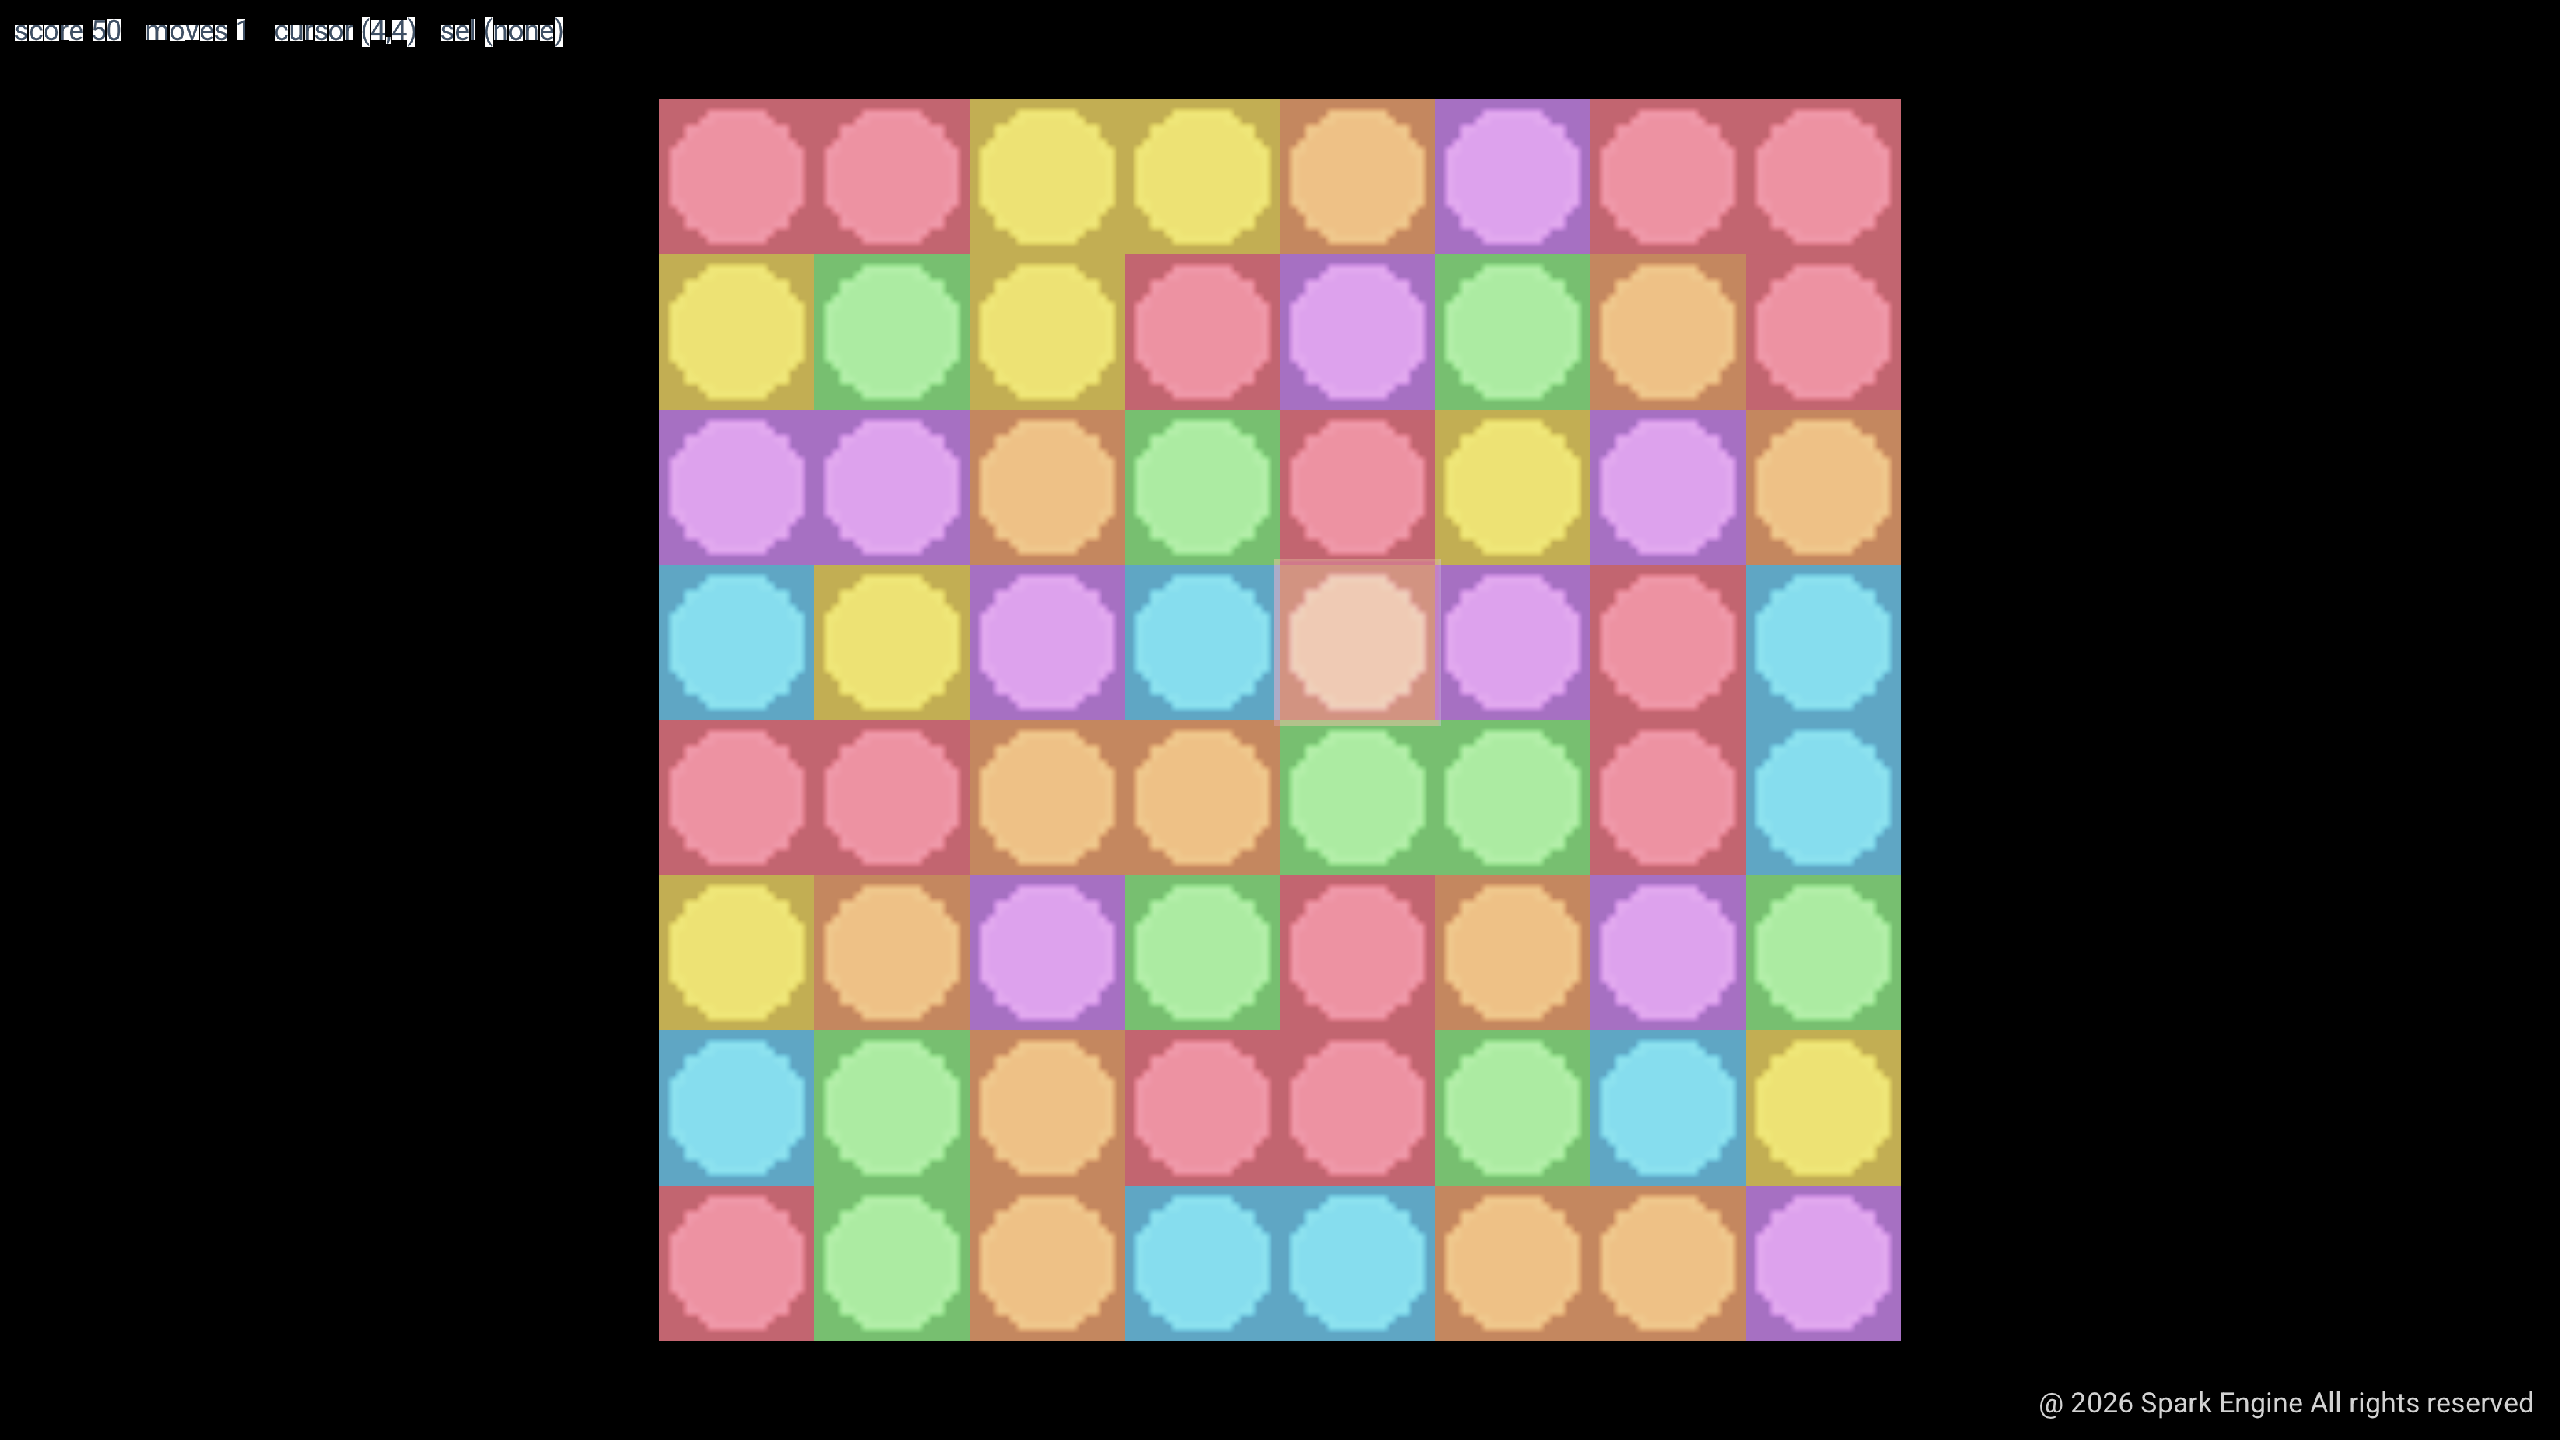
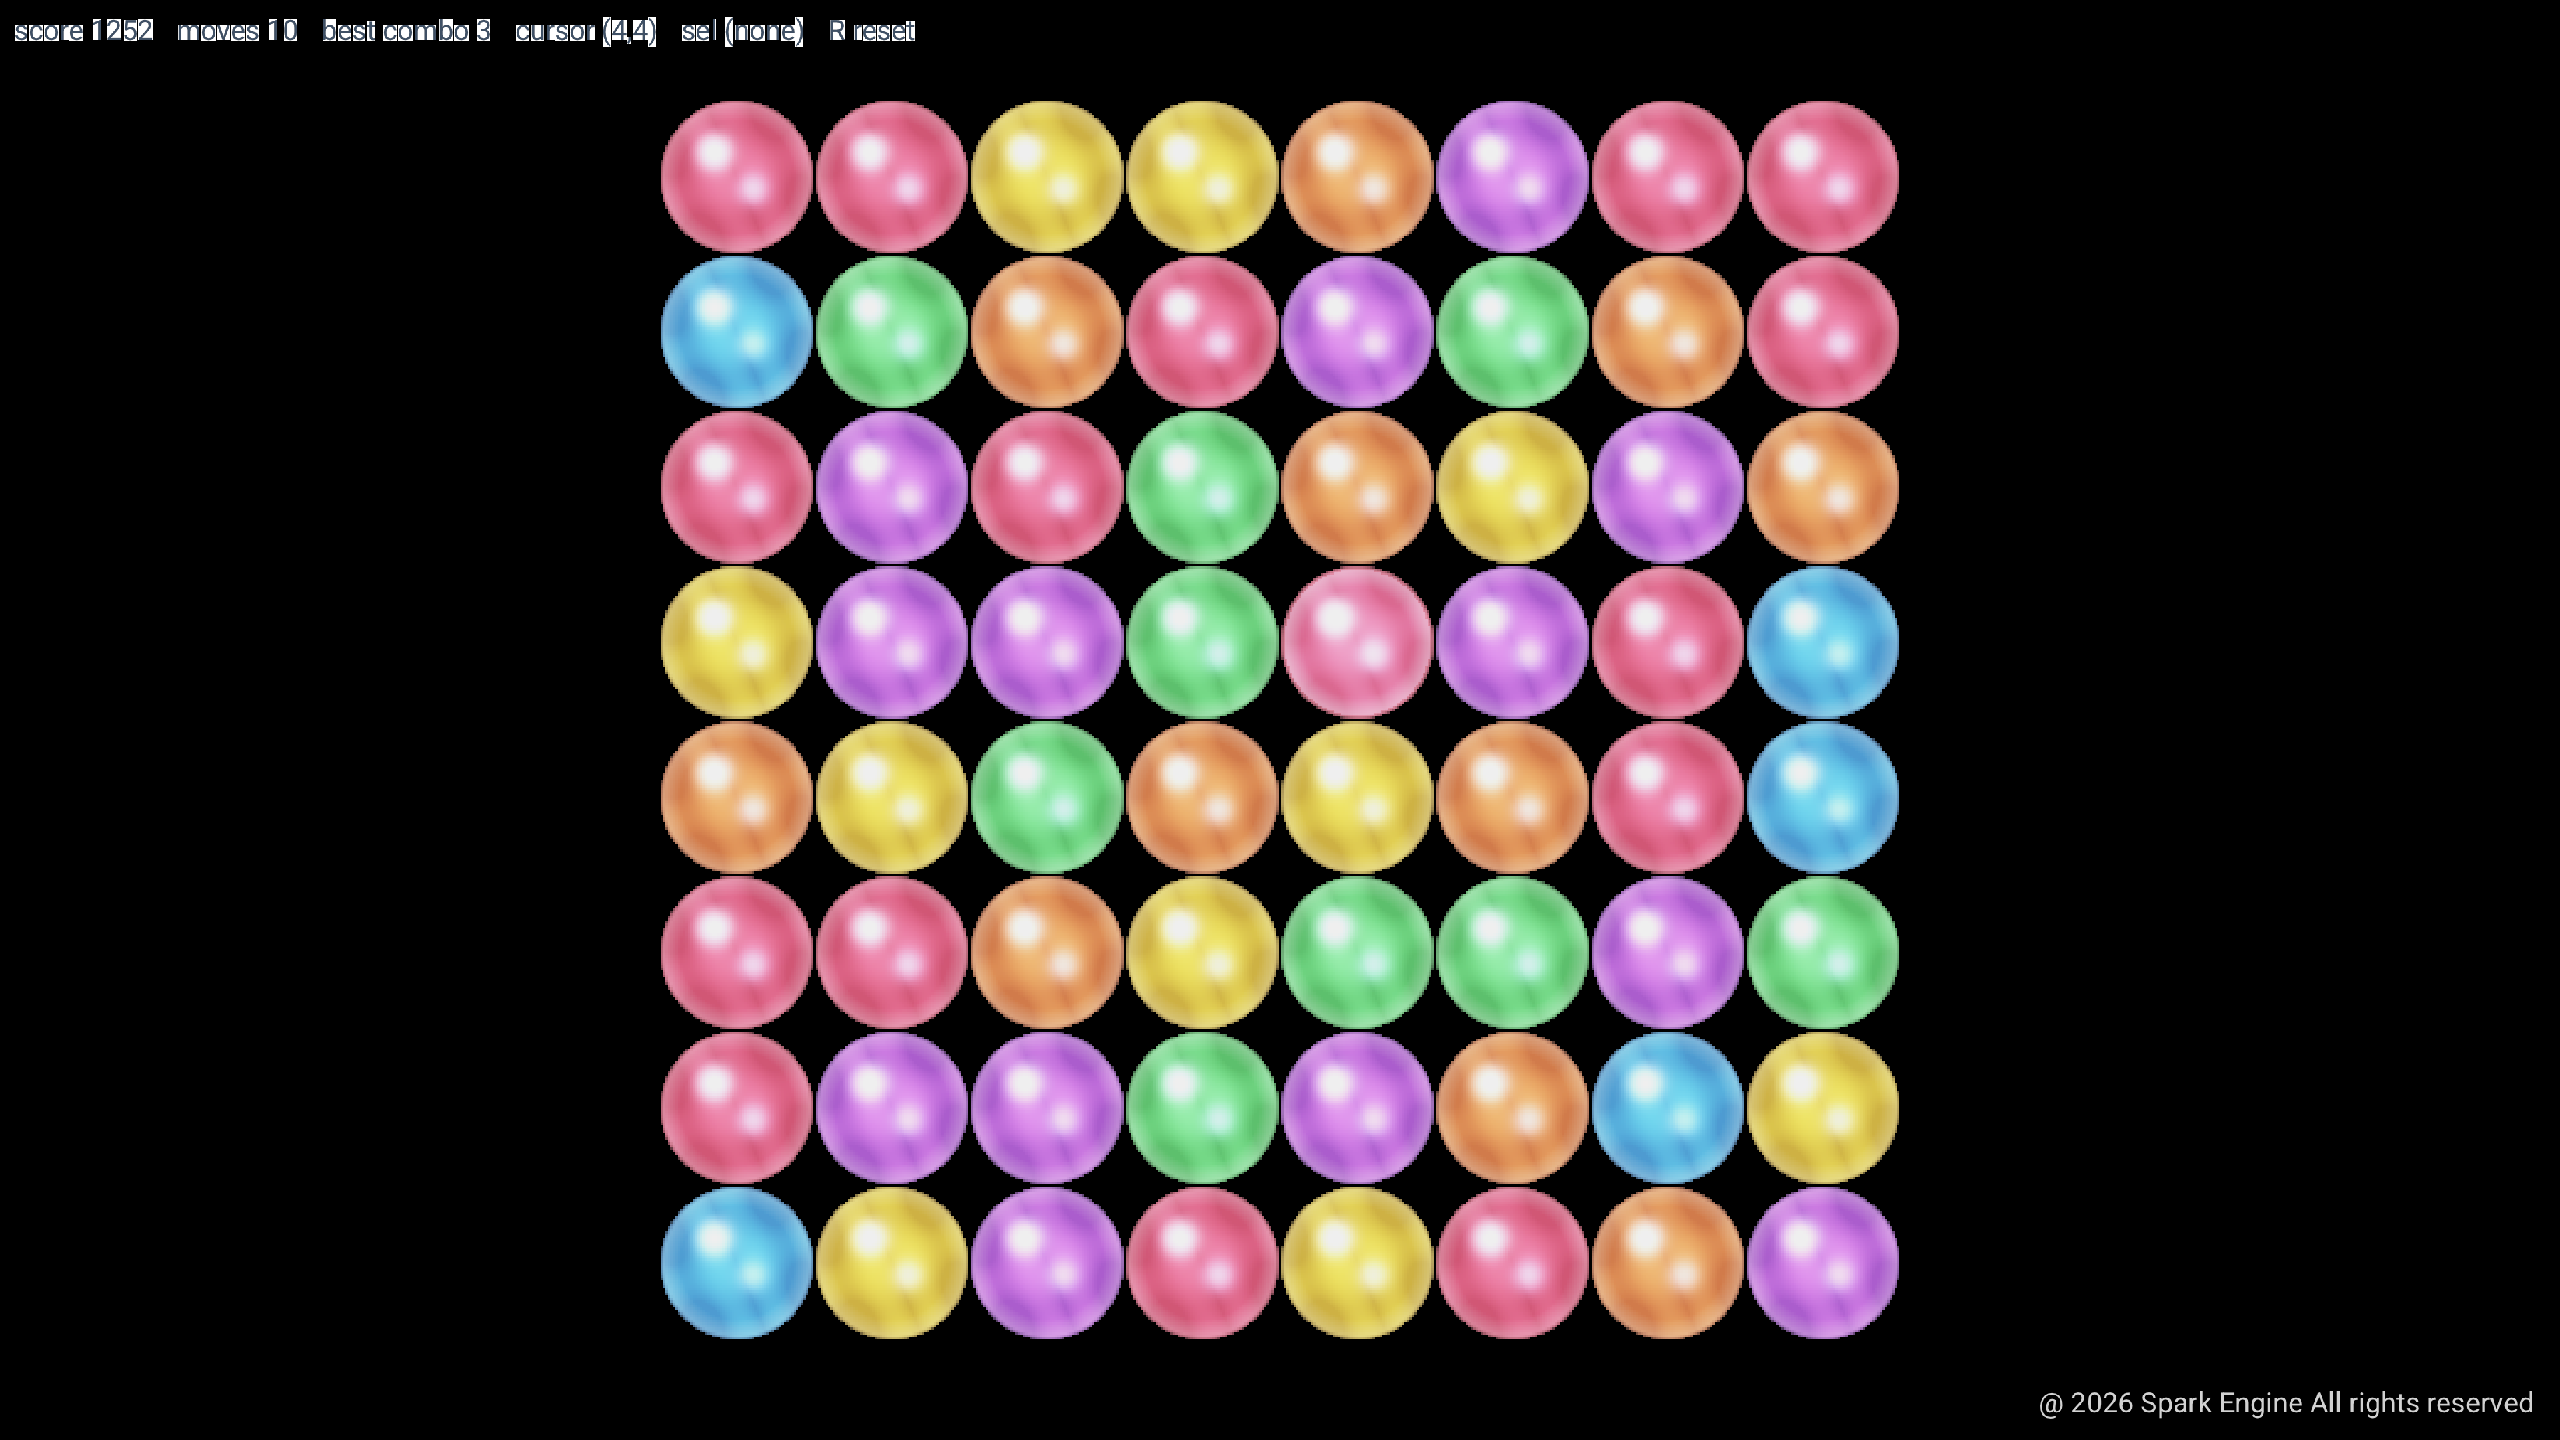
add match-3 demo bgm and change texture

diff --git a/include/spark/demo/Connect3Demo.hpp b/include/spark/demo/Connect3Demo.hpp
@@ -3,6 +3,7 @@
 #include "spark/demo/DemoProceduralSound.hpp"
 #include "spark/demo/ShellDemoInternalIncludes.hpp"
 #include "spark/demo/ShellDemoSceneUtil.hpp"
+#include "spark/audio/SoundEngine.hpp"
 #include "spark/ecs/components/rendering/BlendModeComponent.hpp"
 #include "spark/ecs/components/rendering/SpriteComponent.hpp"
 #include "spark/ecs/components/rendering/TextOverlayComponent.hpp"
@@ -18,16 +19,16 @@ namespace Spark {
 
 namespace Detail {
 
-[[nodiscard]] inline float GemFacetShade(const float fx, const float fy, const float diamond) noexcept {
+[[nodiscard]] inline float GemFacetShade(const float fx, const float fy, const float r) noexcept {
     const float facetA = std::fabs(fx * 0.92F + fy * 0.38F);
     const float facetB = std::fabs(fx * -0.35F + fy * 0.94F);
     const float facet = 0.55F + 0.22F * std::sin(facetA * 14.0F) + 0.18F * std::cos(facetB * 11.0F);
-    const float rim = std::clamp((0.44F - diamond) / 0.08F, 0.0F, 1.0F);
-    return std::clamp(facet * (0.72F + 0.28F * rim), 0.35F, 1.35F);
+    const float rim = std::clamp((0.48F - r) / 0.10F, 0.0F, 1.0F);
+    return std::clamp(facet * (0.80F + 0.20F * rim), 0.35F, 1.35F);
 }
 
 [[nodiscard]] inline Spark::SharedPtr<Spark::Texture2D> MakeGemAtlas() {
-    constexpr std::uint32_t tw = 28;
+    constexpr std::uint32_t tw = 64;
     constexpr std::uint32_t au = 3;
     constexpr std::uint32_t av = 2;
     constexpr std::uint32_t w = au * tw;
@@ -60,15 +61,22 @@ namespace Detail {
                 for (std::uint32_t px0 = 0; px0 < tw; ++px0) {
                     const float fx = (static_cast<float>(px0) + 0.5F) / static_cast<float>(tw) - 0.5F;
                     const float fy = (static_cast<float>(py) + 0.5F) / static_cast<float>(tw) - 0.5F;
-                    const float diamond = std::fabs(fx) + std::fabs(fy);
+                    const float r = std::sqrt(fx * fx + fy * fy);
+                    constexpr float kGemRadius = 0.475F;
+                    constexpr float kEdgeSoft = 0.014F;
                     Spark::Vector3 out = d;
                     float alpha = 0.0F;
-                    if (diamond <= 0.46F) {
+                    if (r <= kGemRadius + kEdgeSoft) {
                         alpha = 1.0F;
-                        const float shade = GemFacetShade(fx, fy, diamond);
+                        if (r > kGemRadius - kEdgeSoft) {
+                            alpha = std::clamp((kGemRadius + kEdgeSoft - r) / (2.0F * kEdgeSoft), 0.0F, 1.0F);
+                        }
+                        const float shade = GemFacetShade(fx, fy, r);
                         out = {d.x + (c.x - d.x) * shade, d.y + (c.y - d.y) * shade, d.z + (c.z - d.z) * shade};
-                        if (diamond > 0.38F) {
-                            out = out * 0.78F + Spark::Vector3{1.0F, 1.0F, 1.0F} * 0.22F;
+                        if (r > kGemRadius * 0.76F) {
+                            const float rimT =
+                                    std::clamp((r - kGemRadius * 0.76F) / (kGemRadius * 0.24F), 0.0F, 1.0F);
+                            out = out * (1.0F - rimT * 0.18F) + Spark::Vector3{1.0F, 1.0F, 1.0F} * (rimT * 0.18F);
                         }
                         const float hx = fx + 0.14F;
                         const float hy = fy - 0.16F;
@@ -91,6 +99,7 @@ namespace Detail {
         }
     }
     tex.SetPixels(w, h, Spark::MoveTemp(px));
+    tex.SetSceneUploadNearest(true);
     return Spark::MakeShared<Spark::Texture2D>(Spark::MoveTemp(tex));
 }
 
@@ -186,6 +195,7 @@ private:
     int score = 0;
     int moves = 0;
     std::uint32_t rng = 1;
+    Spark::SoundEngine* audioEngine = nullptr;
 };
 
 }  // namespace Spark

diff --git a/src/spark/demo/Connect3Demo.cpp b/src/spark/demo/Connect3Demo.cpp
@@ -1,5 +1,6 @@
 #include "spark/demo/Connect3Demo.hpp"
 
+#include "spark/audio/SoundFileLoader.hpp"
 #include "spark/ecs/components/rendering/BlendModeComponent.hpp"
 #include "spark/ecs/components/rendering/SpriteComponent.hpp"
 #include "spark/ecs/components/core/TransformComponent.hpp"
@@ -114,10 +115,26 @@ void Connect3Demo::Load(Spark::GameWorld& w, Spark::IEngineContext& context)
         FillBoardNoMatches();
         PushBoardToTilemap();
         context.GetInput().SetCursorCaptured(false);
+
+        if (audioEngine != nullptr) {
+            audioEngine->ClearBackgroundMusic();
+            audioEngine = nullptr;
+        }
+        audioEngine = context.TryGetSoundEngine();
+        if (audioEngine != nullptr && audioEngine->IsRunning()) {
+            if (Spark::SharedPtr<Spark::SoundClip> bgm =
+                        TryLoadSoundClipFromBundledAsset("assets/audio/LivelyCity.wav")) {
+                audioEngine->SetBackgroundMusic(bgm, 0.30F, true);
+            }
+        }
     }
 
 void Connect3Demo::Unload(Spark::GameWorld& w)
 {
+        if (audioEngine != nullptr) {
+            audioEngine->ClearBackgroundMusic();
+            audioEngine = nullptr;
+        }
         for (std::size_t i = 0; i < roots.GetSize(); ++i) {
             if (roots[i] != nullptr) {
                 w.DestroyGameObject(roots[i]);
